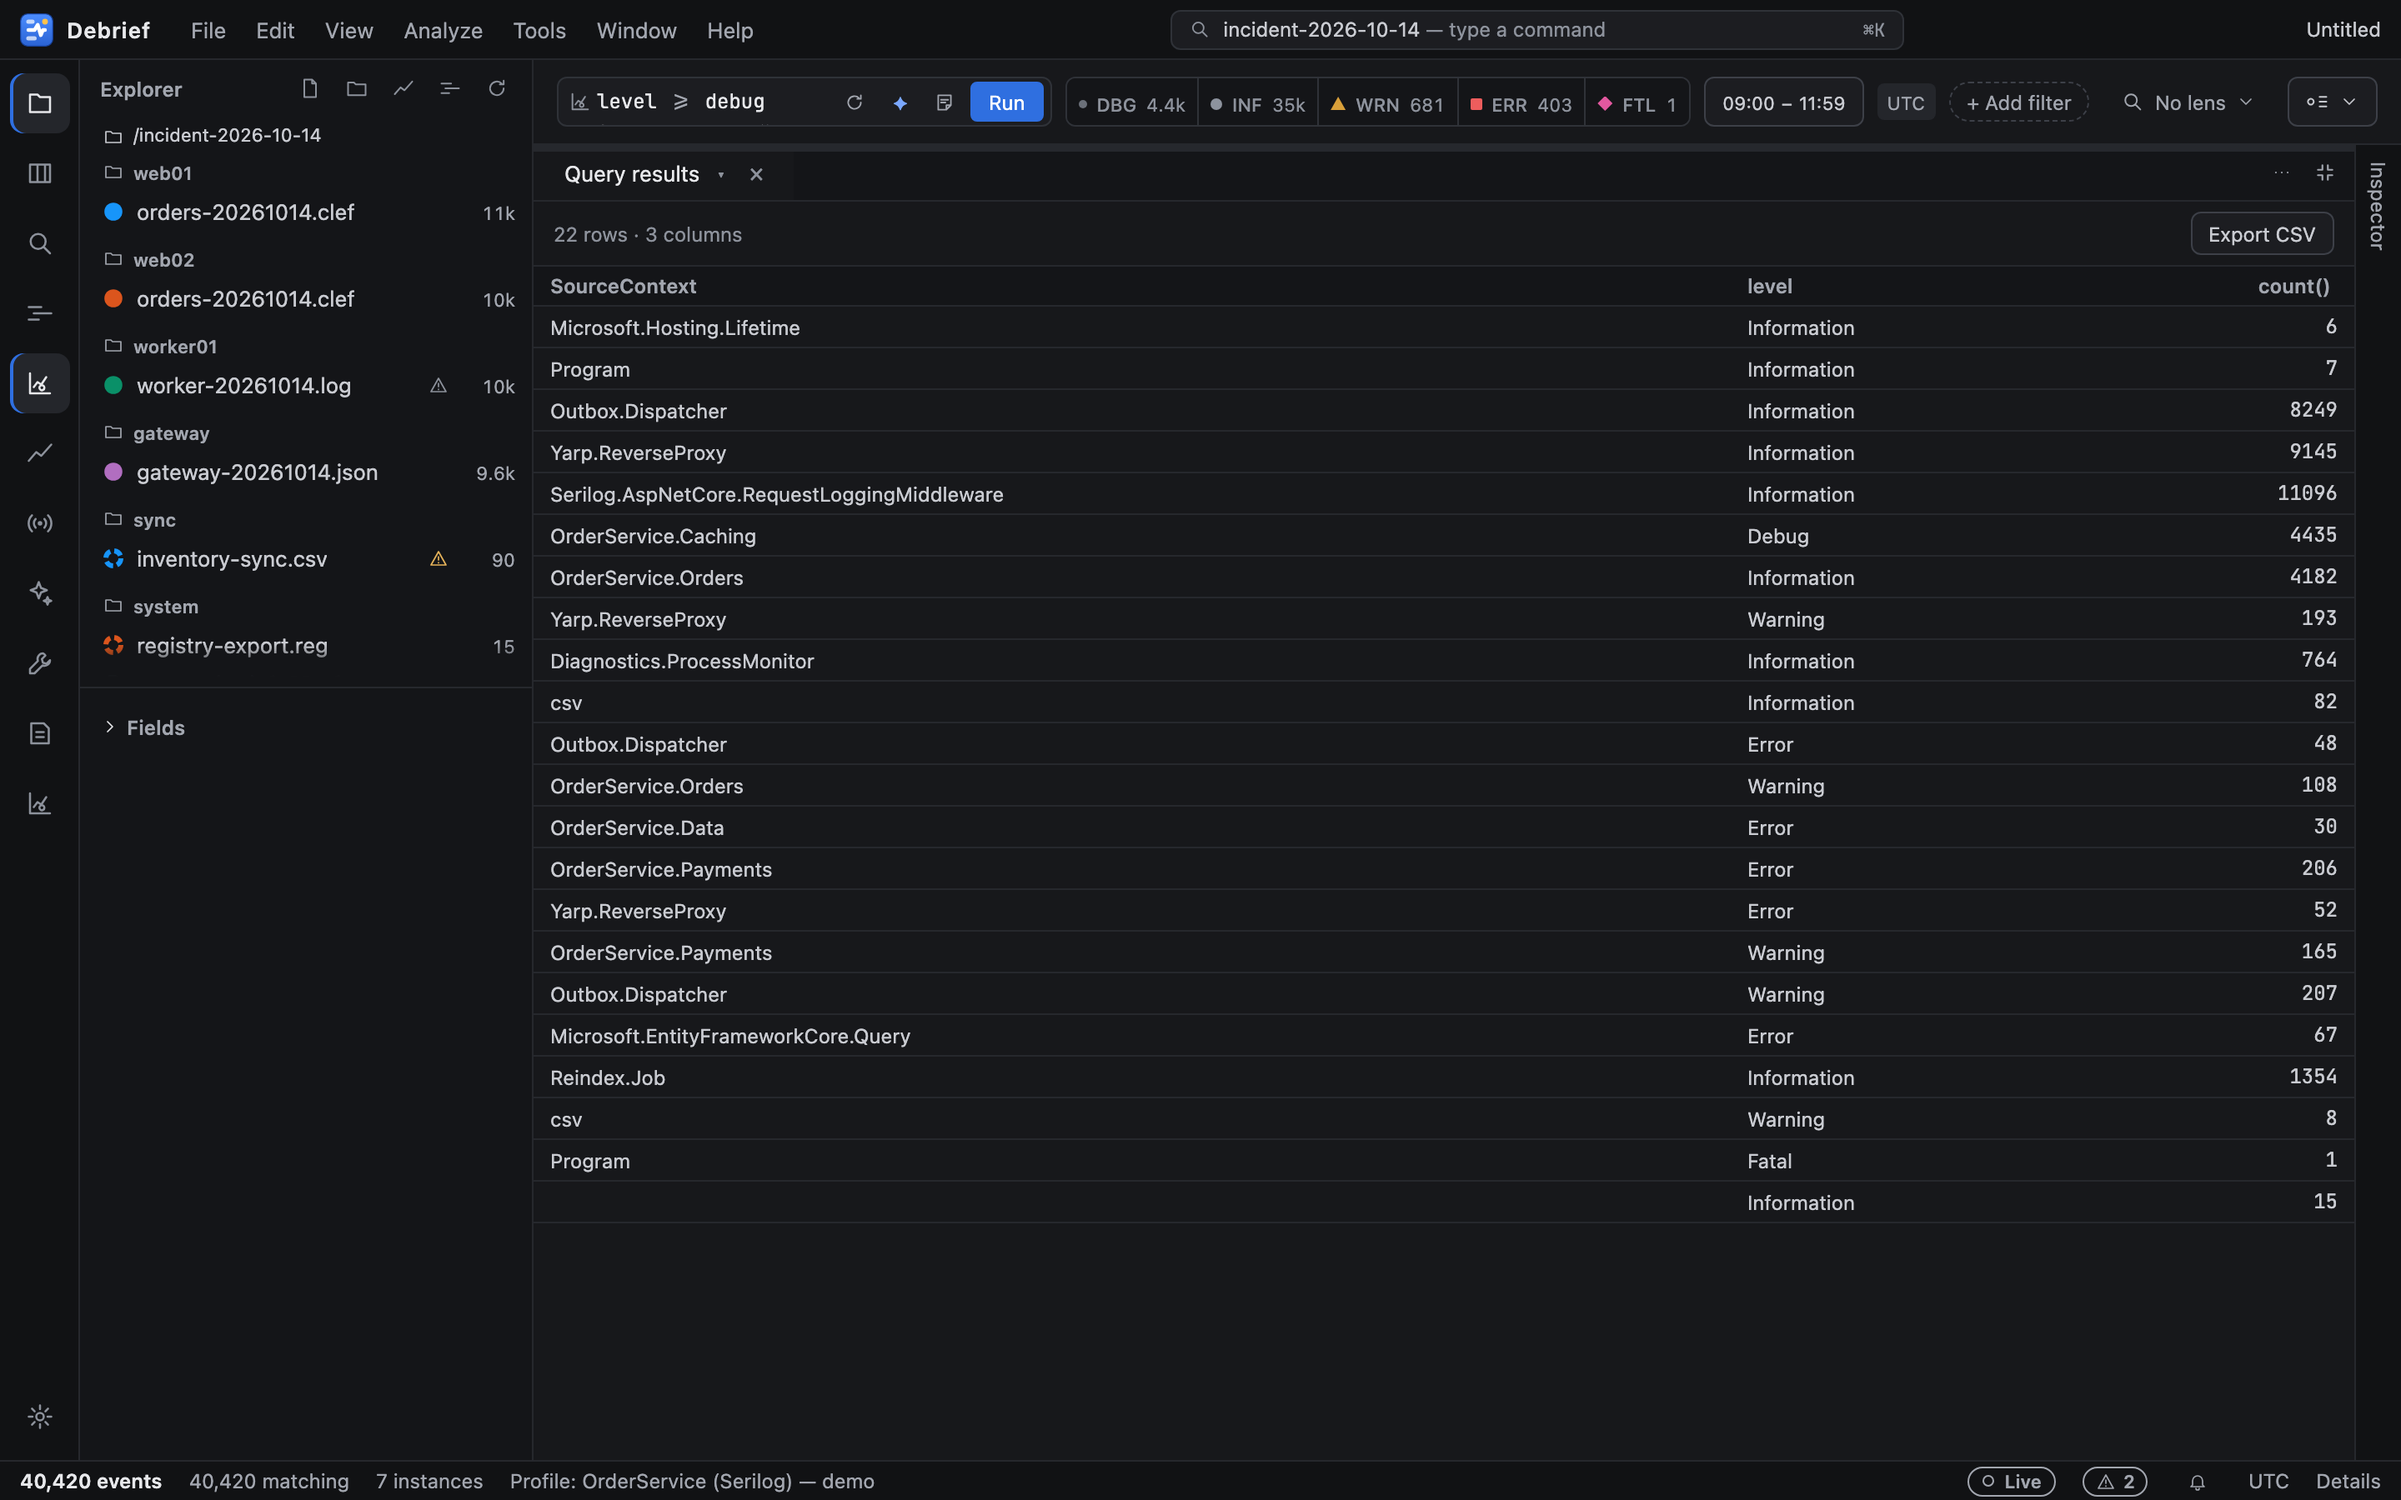
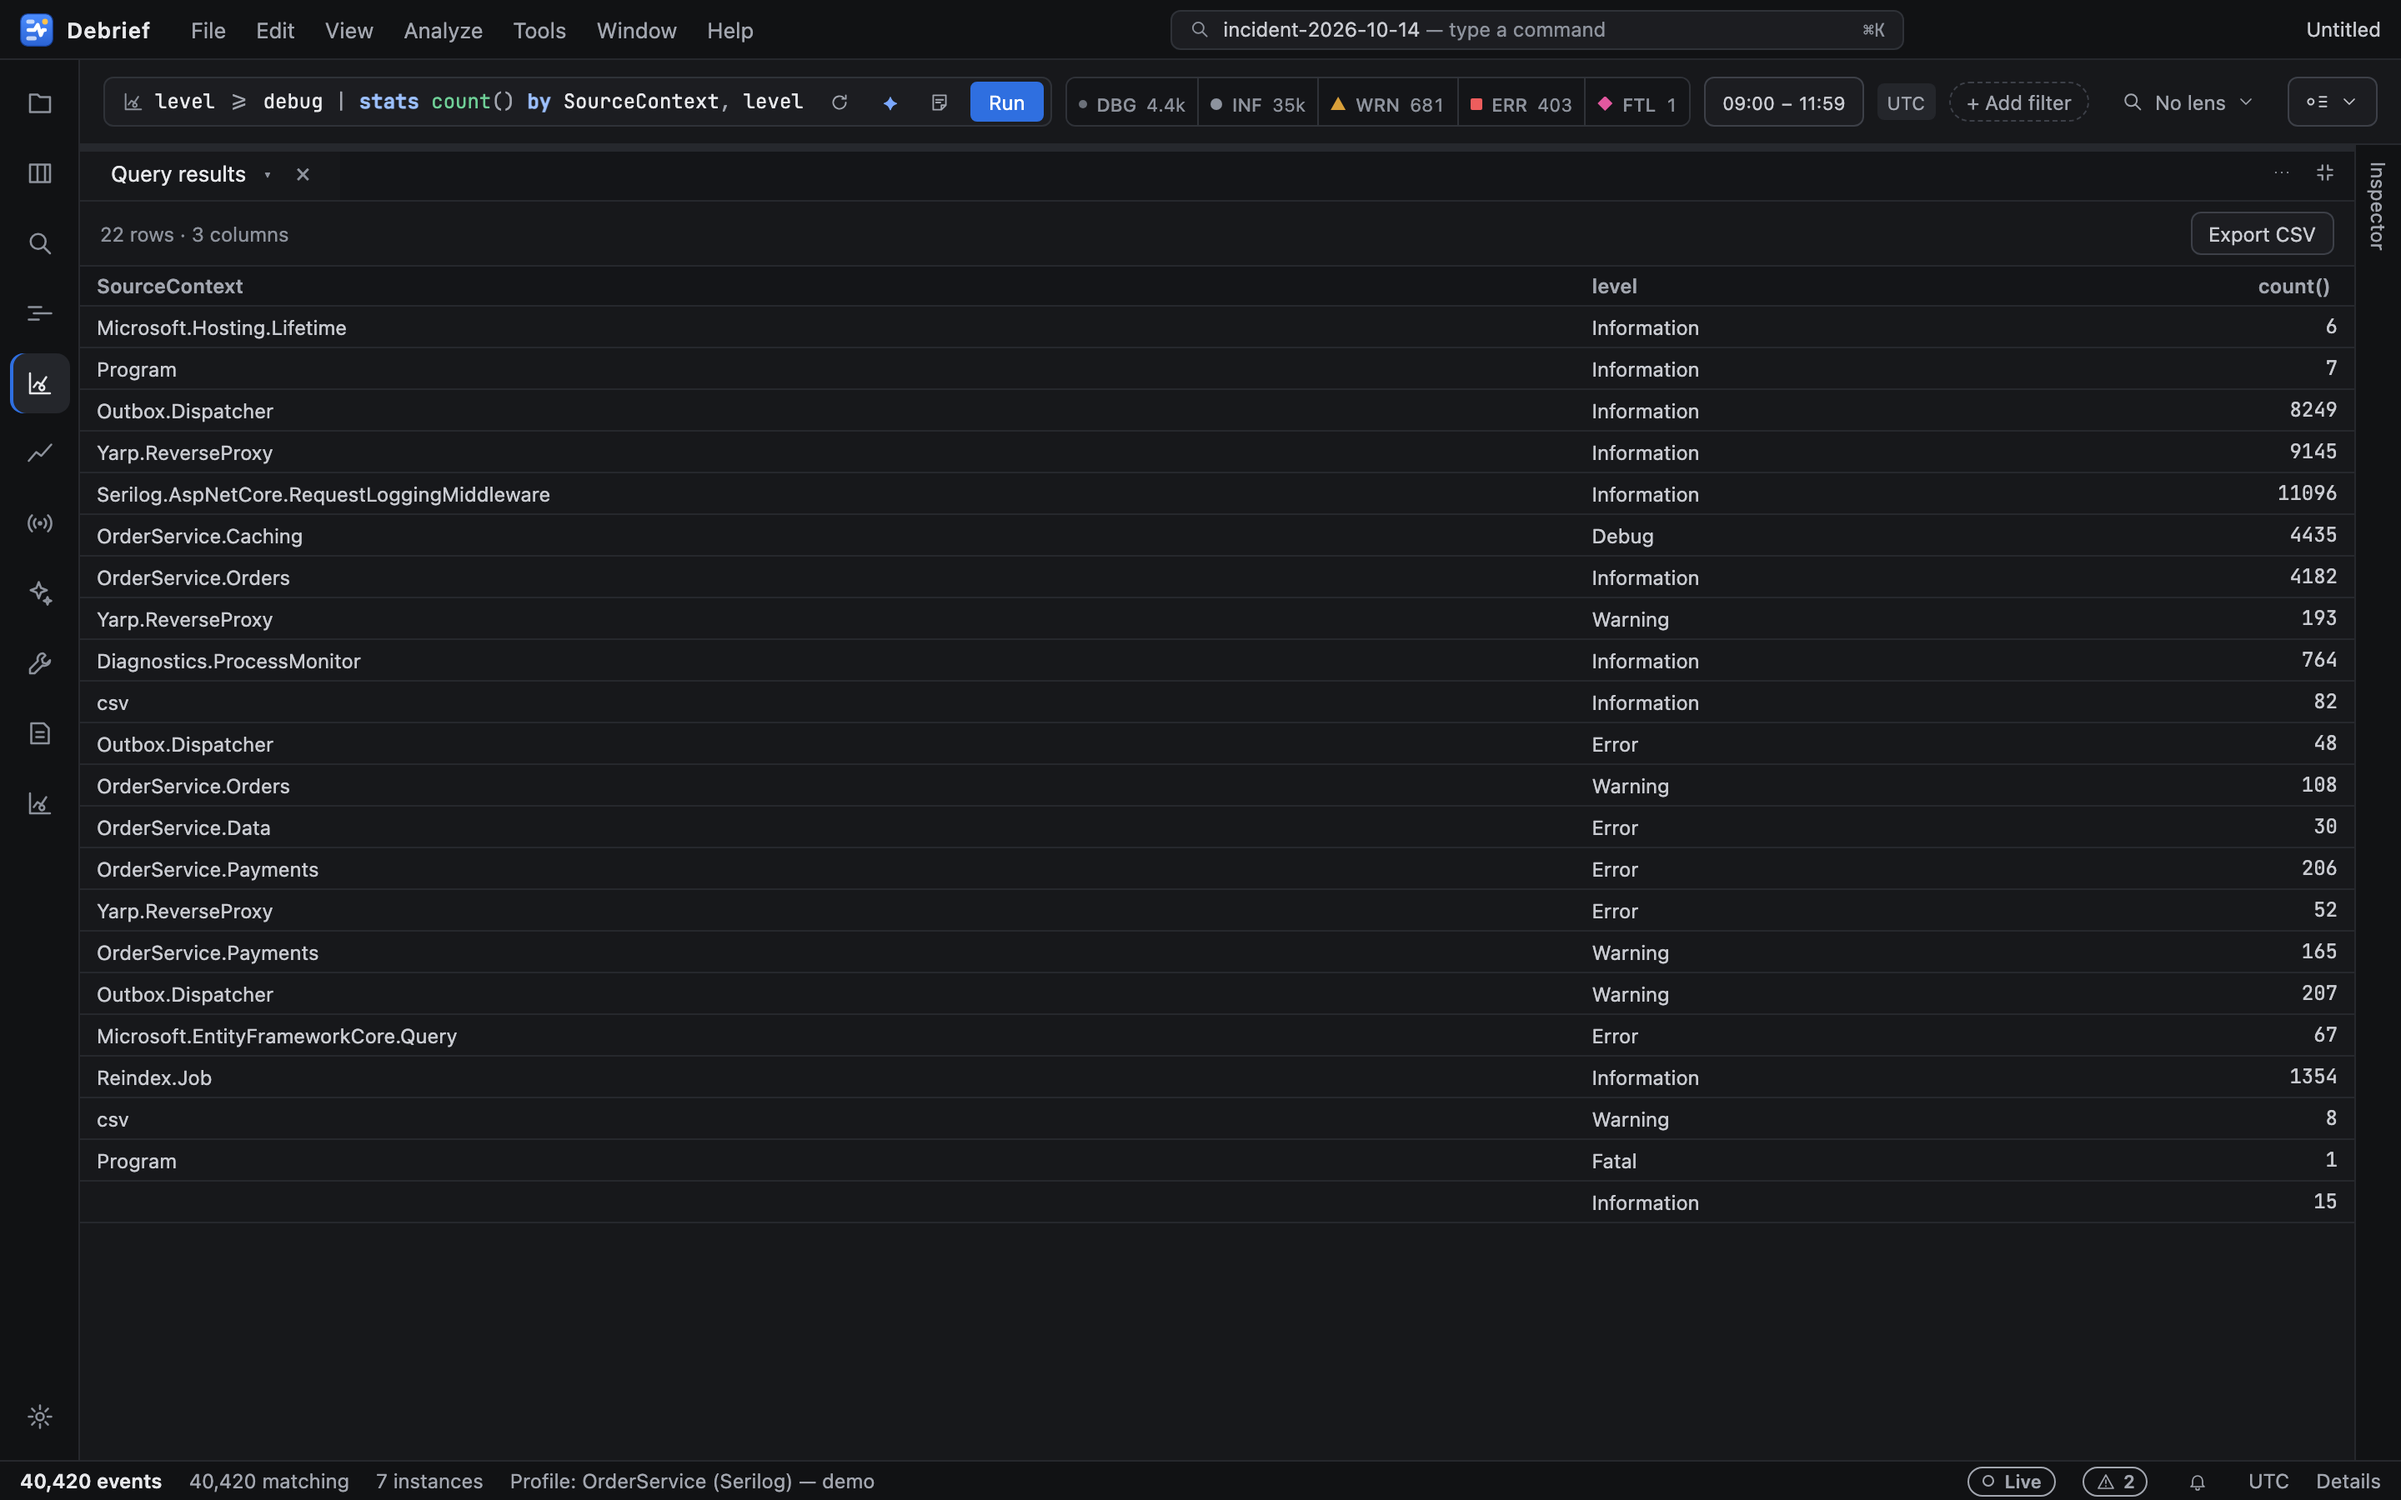
docs: the query screenshots show the one-line query that produced their results (second review P1)

diff --git a/app/scripts/screenshots/capture.ts b/app/scripts/screenshots/capture.ts
@@ -206,16 +206,20 @@ async function captureAll(page: Page, theme: 'dark' | 'light'): Promise<void> {
   // The query shots: two panes (events and results) so every row is whole; the query bar shows what produced the results.
   await fresh(page, theme);
   await page.locator('.debrief-tab[data-panel-id="timeline"] .debrief-tab-close').click({ timeout: 2000 }).catch(() => undefined);
+  // The Explorer closed (Ctrl+B): the search field gets the width to show the whole one-line query.
+  await page.keyboard.press('ControlOrMeta+b');
   await shot(page, 'query', async () => {
     await need(page, 'Query: focus the search field');
-    await page.getByTestId('query-field').fill('level >= debug\n| stats count()\n  by SourceContext\n| head 6'); // several short lines: the field grows while focused, so the whole query shows
+    // One line that fits the bar: unfocused, the field shows the whole query that produced the rows (and covers nothing).
+    await page.getByTestId('query-field').fill('level >= debug | stats count() by SourceContext, level');
     await page.keyboard.press('ControlOrMeta+Enter');
+    await page.getByTestId('query-field').blur();
     await page.waitForTimeout(800);
   });
 
   await shot(page, 'query-results', async () => {
     await need(page, 'Query: focus the search field');
-    await page.getByTestId('query-field').fill('level >= debug\n| stats count()\n  by SourceContext,\n     level');
+    await page.getByTestId('query-field').fill('level >= debug | stats count() by SourceContext, level');
     await page.getByTestId('query-field').press('ControlOrMeta+Enter');
     await page.waitForTimeout(1200);
     await need(page, 'Query: show results');
@@ -223,6 +227,7 @@ async function captureAll(page: Page, theme: 'dark' | 'light'): Promise<void> {
     await page.waitForTimeout(800);
   }, 'Query results');
 
+  await page.keyboard.press('ControlOrMeta+b'); // the Explorer back for the later shots
   // The query shots leave their text in the search field: clear it so later shots show an empty field.
   await need(page, 'Query: focus the search field').catch(() => undefined);
   await page.getByTestId('query-field').fill('').catch(() => undefined);
